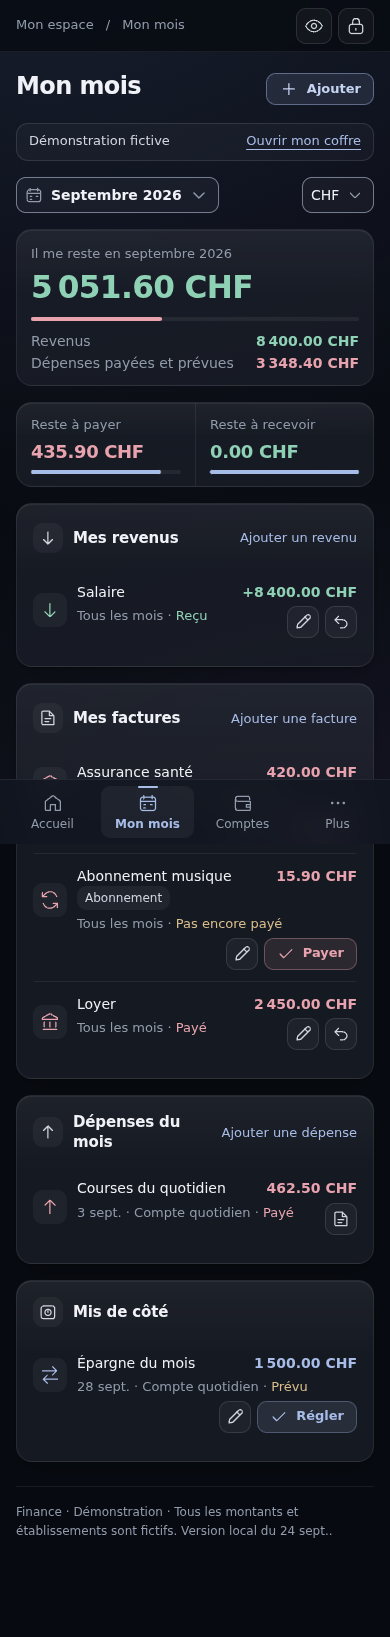
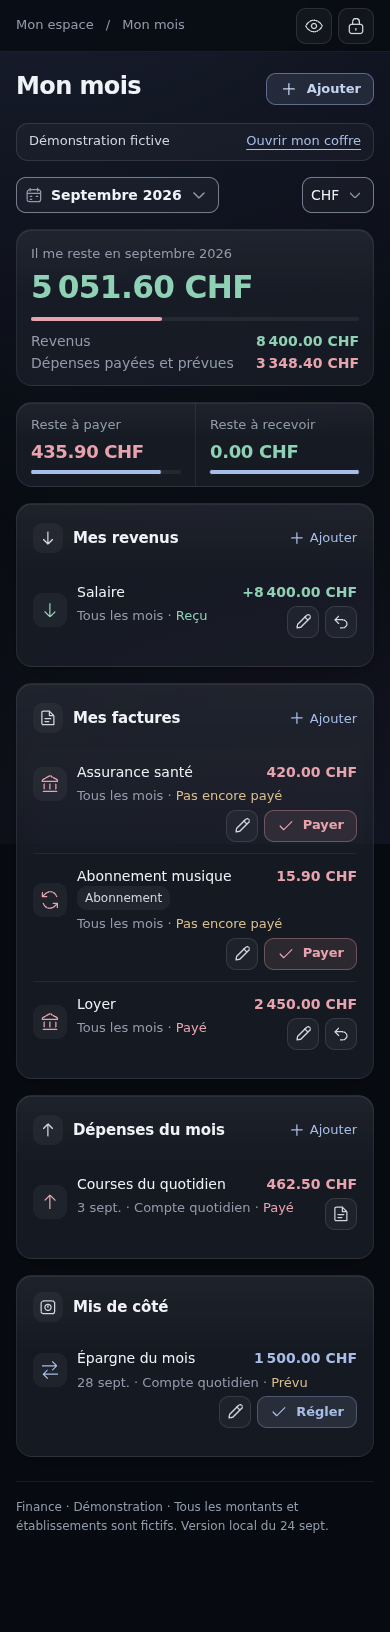
Relecture du lot C : paiement en retard dit « Payé en {mois} », une ligne par règlement
- Dans le mois d'échéance, une facture réglée plus tard affiche « Payé en
  {mois} » et un montant en retrait : elle compte dans le mois du paiement,
  comme les totaux.
- Un règlement lié sans date n'est plus répété dans « Opérations à dater ».
- Le règlement d'une récurrence s'ouvre en touchant sa ligne.
- « Reste à payer » partiel le dit ; actions de carte « Ajouter » avec leur
  nom complet pour les lecteurs d'écran.
- Aller-retour Type/Nature de nouveau testé ; barre mobile absente des
  captures pleine page ; documentation à six pages partout.

Claude-Session: https://claude.ai/code/session_01BRBYP9qFWMSoWkBQrWgN3b

diff --git a/src/App.tsx b/src/App.tsx
@@ -1654,7 +1654,9 @@ export default function App() {
     expenseOperations = operationsOf("expense"),
     savingOperations = operationsOf("saving");
   // Ni date ni mois : dans aucun mois, montrées à part tant qu'il y en a.
-  const undatedOperations = data.transactions.filter((t) => !t.date && !t.budgetMonth);
+  const undatedOperations = data.transactions.filter(
+    (t) => !t.date && !t.budgetMonth && !onRecurrenceRow.has(t),
+  );
   // « Il me reste » : revenus du mois moins dépenses du mois. Rien de saisi, ou un montant
   // inconnu : « — », jamais un zéro inventé.
   const sumKnown = (values: (number | null)[]) =>
@@ -2164,6 +2166,12 @@ export default function App() {
         : null;
     const amountMinor = cohortItem ? cohortItem.dueAmountMinor : null;
     const amountCurrency = cohortItem ? cohortItem.currency : r.currency;
+    // Réglée dans un autre mois (en retard) : elle compte dans le mois du paiement, pas dans
+    // celui-ci, ce que la ligne dit (« Payé en octobre ») et montre (montant en retrait).
+    const paidMonth = settledTxn ? transactionMonth(settledTxn) : undefined;
+    const settledElsewhere = !!settledTxn && !!paidMonth && paidMonth !== month;
+    const settledUndated = !!settledTxn && !paidMonth;
+    const settledWord = r.kind === "income" ? "Reçu" : "Payé";
     // quickSettle is called with dueTxn (a virtual "r.id:dueDate" id — it isn't in
     // data.transactions yet) and stamps that same id onto the real transaction it writes.
     // Once persisted, cohortItem.settled picks that transaction back up by
@@ -2187,7 +2195,25 @@ export default function App() {
         >
           <Icon name={recurrenceTypeIcons[r.recurrenceType]} />
         </span>
-        <div className="row-main">
+        <div
+          className={`row-main${settledTxn ? " row-main-button" : ""}`}
+          {...(settledTxn
+            ? {
+                // Le règlement lui-même (date, compte, état) s'ouvre en touchant la ligne.
+                role: "button" as const,
+                tabIndex: 0,
+                "aria-label": `Détail du règlement de ${r.label}`,
+                onClick: () =>
+                  edit({ type: "transaction", id: settledTxn.id, kind: settledTxn.kind }),
+                onKeyDown: (e: ReactKeyboardEvent) => {
+                  if (e.key === "Enter" || e.key === " ") {
+                    e.preventDefault();
+                    edit({ type: "transaction", id: settledTxn.id, kind: settledTxn.kind });
+                  }
+                },
+              }
+            : {})}
+        >
           <span className="row-title">
             {r.label}
             {/* Factures et abonnements partagent la carte : l'abonnement se reconnaît ici. */}
@@ -2219,9 +2245,11 @@ export default function App() {
                       className={`nowrap ${cohortItem.settled ? recurrenceTone(r) : "status-pending"}`}
                     >
                       {cohortItem.settled
-                        ? r.kind === "income"
-                          ? "Reçu"
-                          : "Payé"
+                        ? settledElsewhere
+                          ? `${settledWord} en ${monthLabel(paidMonth!)}`
+                          : settledUndated
+                            ? `${settledWord} · date à vérifier`
+                            : settledWord
                         : r.kind === "income"
                           ? "Pas encore reçu"
                           : "Pas encore payé"}
@@ -2242,7 +2270,9 @@ export default function App() {
           </span>
         </div>
         <div className="row-end">
-          <div className={`row-value ${recurrenceTone(r)}`}>
+          <div
+            className={`row-value ${settledElsewhere ? "counted-elsewhere" : recurrenceTone(r)}`}
+          >
             {amountMinor !== null && (
               <>
                 {r.kind === "income" ? "+" : ""}
@@ -2251,7 +2281,8 @@ export default function App() {
             )}
           </div>
           <div className="row-actions">
-            {/* L'action principale reste au bord droit. */}
+            {/* L'action principale reste au bord droit. Le crayon garde l'accès à la
+                récurrence (nom, compte, arrêt), même un mois déjà payé. */}
             <button
               className="icon-button"
               aria-label={`Modifier ${r.label}`}
@@ -2892,6 +2923,12 @@ export default function App() {
                 );
               })}
             </div>
+            {summary.unknownCount > 0 && (
+              <p className="meta">
+                {summary.unknownCount} opération(s) non comptée(s) : taux de change
+                manquant ou état à vérifier.
+              </p>
+            )}
             <Card
               title="Mes revenus"
               icon="arrow-down"
@@ -2901,8 +2938,10 @@ export default function App() {
                   onClick={() =>
                     edit({ type: "recurrence", kind: "income", simple: true })
                   }
+                  aria-label="Ajouter un revenu"
                 >
-                  Ajouter un revenu
+                  <Icon name="plus" size={18} />
+                  Ajouter
                 </button>
               }
             >
@@ -2924,8 +2963,10 @@ export default function App() {
                   onClick={() =>
                     edit({ type: "recurrence", recurrenceType: "bill", simple: true })
                   }
+                  aria-label="Ajouter une facture"
                 >
-                  Ajouter une facture
+                  <Icon name="plus" size={18} />
+                  Ajouter
                 </button>
               }
             >
@@ -2945,8 +2986,10 @@ export default function App() {
                 <button
                   className="card-action"
                   onClick={() => edit({ type: "transaction", kind: "expense" })}
+                  aria-label="Ajouter une dépense"
                 >
-                  Ajouter une dépense
+                  <Icon name="plus" size={18} />
+                  Ajouter
                 </button>
               }
             >

diff --git a/src/domain/finance.ts b/src/domain/finance.ts
@@ -291,7 +291,7 @@ export function findOccurrenceTransaction(
  * the projection's own id `${recurrenceId}:${date}`. The id fallback only accepts a
  * transaction carrying no link at all: one whose link names another occurrence is that
  * occurrence's record, never this one's. Shared by `transactionsForMonth`, `occurrenceCohort`
- * and `withOccurrenceAmount`, so Mon mois, Abonnements and Factures agree on every occurrence. */
+ * and `withOccurrenceAmount`, so Mon mois and the Accueil agree on every occurrence. */
 function occurrenceLinks(
   transactions: Transaction[],
 ): (recurrenceId: string, date: string) => Transaction | undefined {
@@ -517,7 +517,7 @@ export function cohortSummary(
  * month's first day instead). The occurrence's linked transaction (`findOccurrenceTransaction`),
  * if any, gets only its `amountMinor` replaced — status, dates, documents and provenance stay as
  * they are. Otherwise the projection (`projectedOccurrence`) is persisted, status "planned",
- * with this amount — so Mon mois, Abonnements and Factures all read the same single record, and
+ * with this amount — so Mon mois and the Accueil read the same single record, and
  * a later recurrence amount change never overrides it. `amountMinor` is read in the currency of
  * the record it lands on: the linked transaction's own (cohort item `currency`) when one
  * exists, else the recurrence's.

diff --git a/src/index.css b/src/index.css
@@ -1488,6 +1488,11 @@ details[open] > summary::after {
   line-height: 1.45;
   font-variant-numeric: tabular-nums;
 }
+/* Échéance réglée dans un autre mois : montrée, mais comptée dans le mois du paiement. */
+.row-value.counted-elsewhere {
+  color: var(--muted);
+  font-weight: 500;
+}
 .row-value .row-detail {
   font-weight: 400;
 }

diff --git a/docs/STATUS.md b/docs/STATUS.md
@@ -880,7 +880,7 @@ Ce qui change :
 - **Chaque opération une seule fois.** L'échéance due d'une récurrence est la ligne de cette récurrence, qu'elle soit projetée, ajustée ou réglée. Toute autre opération du mois reste visible dans la carte de sa nature :
   - l'échéance d'une récurrence existante qui n'est pas celle affichée ce mois-ci, par exemple payée en retard, compte dans le mois de son paiement. Elle y porte « pour {mois} » : le mois qu'elle règle, jamais un jour ;
   - une opération dont la récurrence a disparu reste ponctuelle.
-  Les lignes affichées correspondent ainsi aux totaux du mois.
+  Dans le mois de l'échéance, un règlement fait plus tard affiche « Payé en {mois} », avec son montant en retrait : il compte dans le mois du paiement, comme dans les totaux.
 - **Conservé** :
   - « Payer », « Reçu » et « Régler » instantanés, avec leur voile ;
   - « Remettre à payer » avec « Annuler » ;
@@ -932,10 +932,25 @@ Limites :
 - **80 px non atteints pour une ligne avec « Payer ».** Placer le bouton sur la ligne du statut laisserait environ 135 px au texte « Tous les mois · Pas encore payé », qui en demande environ 190. Le statut passerait sur deux lignes (environ 87 px) et les titres perdraient 45 px. La mise en page actuelle est donc gardée (104 px). Un abonnement au nom long fait 128 px : son étiquette passe à la ligne (« Abonnement musique » dans la démo).
 - À 390 px, dans Chromium sous Linux, le titre « Dépenses du mois » passe sur deux lignes à côté de « Ajouter une dépense ». La police y est plus large que SF Pro ; ce point n'est pas vérifié sur iPhone.
 - **Créer un abonnement** : « Un abonnement » est ajouté au choix « Ajouter » de l'Accueil. Une mise de côté se crée par « Ajouter une dépense », « Tous les mois » puis « Nature », ou en changeant la nature d'une facture existante. Le formulaire « Une récurrence » avec choix du type (l'ancien « Ajouter » d'Abonnements) n'est plus atteignable ; la nature enregistrée est vérifiée à la réouverture.
-- Une ligne de récurrence réglée n'a pas l'icône « Joindre » (comme sur l'ancienne page Factures). Le reçu se joint depuis Documents et réglages ; les lignes ponctuelles gardent l'icône.
+- Une ligne de récurrence réglée n'a pas l'icône « Joindre », pour rester sur deux icônes : le reçu se joint depuis Documents et réglages (les lignes ponctuelles gardent l'icône). Le règlement lui-même (date, compte, état) s'ouvre en touchant la ligne.
 - « Ajouter une dépense » date l'opération d'aujourd'hui, même si un autre mois est affiché (comportement antérieur du formulaire).
 - `AGENTS.md`, `SKILL.md`, `design.md`, `abonnements.md` et l'agent `finance-abonnements` sont mis à jour : six pages, et Mon mois à la place des pages Abonnements et Factures.
-- Aucune relecture indépendante (`finance-designer`, `finance-verification`) : l'environnement de ce lot n'offrait pas de sous-agents. Aucun essai sur appareil physique.
+- Aucun essai sur appareil physique.
+
+Relecture indépendante (`finance-verification`), avec deux jeux fictifs importés et les lignes de juillet à novembre comparées aux calculs faits à la main :
+- les totaux concordent au centime avec `monthSummary`. Cas vérifiés : paiement anticipé, paiement en retard (« pour août »), échéance ajustée, annuelle et trimestrielle, récurrence en pause ou terminée, montant en EUR converti ;
+- les actions sont conservées : « Payer », « Reçu », « Régler », « Remettre à payer » et « Annuler », le crayon, le focus, les montants masqués ;
+- la navigation est cohérente, il n'y a pas de code mort, et rien ne déborde à 320, 390, 834 et 1440 px.
+
+Défauts réels, corrigés :
+1. **Bloquant :** dans le mois d'échéance d'une facture payée plus tard, la ligne affichait « Payé » et un montant que les totaux de ce mois ne comptent pas. Elle affiche maintenant « Payé en {mois} », avec le montant en retrait. Le scénario « one Mon mois page » vérifie ce mois-là : « Payé en … », et « Reste à payer » comme « Il me reste » à « — » : aucune dépense comptée ce mois-là (un paiement compté donnerait 0.00).
+2. Un règlement lié sans date apparaissait deux fois (sur sa ligne et dans « Opérations à dater ») : il n'apparaît plus qu'une fois, marqué « date à vérifier ».
+3. Le règlement d'une facture récurrente ne s'ouvrait plus depuis Mon mois : la ligne s'ouvre désormais elle-même (« Détail du règlement » : date, compte, état). Le crayon reste, pour « Déjà payé » et l'accès à la récurrence. Le justificatif se joint depuis Documents et réglages, sans troisième icône : une ligne réglée garde ainsi deux icônes et 80 px au plus.
+4. « Reste à payer » partiel (taux manquant, état à vérifier) : une mention indique le nombre d'opérations non comptées.
+5. Le contrôle de l'aller-retour Type/Nature est rétabli dans les e2e.
+6. Documentation encore « sept pages » ou « page Abonnements » : mise à jour.
+7. Captures pleine page : la barre mobile fixe n'y est plus dessinée.
+8. Titres de carte : les actions affichent « Ajouter », avec leur nom complet pour les lecteurs d'écran ; « Dépenses du mois » tient sur une ligne.
 
 ## État réel
 

diff --git a/.claude/skills/finance/references/abonnements.md b/.claude/skills/finance/references/abonnements.md
@@ -62,7 +62,7 @@ Séparer deux axes et les nommer dans l’interface :
 - **cohorte d’échéances** : occurrences dont la date d’échéance appartient au mois sélectionné ;
 - **flux réalisé** : opérations `settled` dont la date réelle de règlement appartient au mois sélectionné.
 
-Pour la cohorte, afficher `Dû en <mois>`, `Réglé pour <mois>` et `Reste dû`. `Réglé pour <mois>` suit le lien avec l’occurrence même si le règlement est plus tardif ; montrer alors sa date et le retard. `Reste dû` ne tombe à zéro que si le règlement rapproché couvre l’occurrence. Tant que le modèle n’a pas de règlement partiel, une opération réglée liée à l’échéance la clôt : son montant devient le montant dû de cette échéance (Mon mois et l’Accueil affichent alors le même chiffre), et l’écart avec la règle reste visible (`projectedAmountMinor`, mention « habituel … »). Pour le flux, conserver les libellés `Payé en <mois>` et `Reçu en <mois>` et classer selon la date réelle.
+Dans Mon mois, une échéance du mois affiche son statut sur la ligne de sa récurrence : « Payé » ou « Reçu » quand le règlement compte dans ce mois, « Payé en <mois> » ou « Reçu en <mois> » quand il a été fait plus tard, le montant étant alors montré en retrait puisqu’il compte dans le mois du paiement ; le mois du paiement le montre, lui, avec « pour <mois de l’échéance> ». `Reste dû` ne tombe à zéro que si le règlement rapproché couvre l’occurrence. Tant que le modèle n’a pas de règlement partiel, une opération réglée liée à l’échéance la clôt : son montant devient le montant dû de cette échéance (Mon mois et l’Accueil affichent alors le même chiffre), et l’écart avec la règle reste visible (`projectedAmountMinor`, mention « habituel … »). Pour le flux, conserver les libellés `Payé en <mois>` et `Reçu en <mois>` et classer selon la date réelle.
 
 Exemple obligatoire : une charge de 100 CHF due le 28 février et payée le 2 mars donne, pour la cohorte de février, 100 CHF dus, 100 CHF réglés et 0 CHF restant, avec la mention « payé le 2 mars ». Le flux réalisé de février vaut 0 CHF pour cette charge ; celui de mars inclut 100 CHF. L’échéance propre à mars reste une occurrence distincte.
 

diff --git a/DEMARRER_CLAUDE.md b/DEMARRER_CLAUDE.md
@@ -15,7 +15,7 @@ récent que les SHA documentés.
 Mon objectif est de garder l’application noire, sobre, simple et rapide,
 tout en la rendant plus aboutie : cartes moins hautes, listes plus claires,
 icônes homogènes, identité d’établissement discrète, tri financier du plus
-gros au plus petit, sélecteur Janvier–Décembre, page Abonnements et statuts
+gros au plus petit, sélecteur Janvier–Décembre, Mon mois qui réunit factures, abonnements et revenus avec leurs statuts
 mensuels Payé/Reçu/Pas encore payé ou reçu. Le logo Finance doit aussi être
 amélioré et rester original.
 
@@ -31,7 +31,7 @@ Traite les lots dans l’ordre des dépendances :
 2. classe les récurrences sans transformer toutes les charges en abonnements ;
 3. fais évoluer le modèle des occurrences et migre les coffres/exports anciens sans perte ;
 4. remplace le contrôle technique YYYY-MM par des mois français et une année, puis ajoute les actions Marquer payé/Marquer reçu et leur correction ;
-5. ajoute la page Abonnements sur ce modèle partagé ;
+5. suis factures, abonnements et revenus dans Mon mois, sur ce modèle partagé ;
 6. centralise le tri multidevise et sépare les valeurs impossibles à comparer ;
 7. transforme comptes et abonnements en listes compactes ;
 8. applique une seule famille d’icônes et un registre local d’établissements ;

diff --git a/README.md b/README.md
@@ -2,7 +2,7 @@
 
 Budget et patrimoine personnels, en français, avec interface « Midnight Glass » (noir graphite, verre fumé, bleu glacier) adaptée à l’iPhone, à l’iPad et à l’ordinateur.
 
-**Reprise Claude / Codex : [DEMARRER_CLAUDE.md](DEMARRER_CLAUDE.md).** Le skill maître est [.claude/skills/finance/SKILL.md](.claude/skills/finance/SKILL.md), accompagné de onze missions spécialisées. L’état de livraison vérifié est dans [docs/STATUS.md](docs/STATUS.md). La tranche compacte avec page Abonnements, tri, icônes et nouveau logo est définie dans [docs/PLAN_AMELIORATION_V2.md](docs/PLAN_AMELIORATION_V2.md).
+**Reprise Claude / Codex : [DEMARRER_CLAUDE.md](DEMARRER_CLAUDE.md).** Le skill maître est [.claude/skills/finance/SKILL.md](.claude/skills/finance/SKILL.md), accompagné de onze missions spécialisées. L’état de livraison vérifié est dans [docs/STATUS.md](docs/STATUS.md). La tranche compacte (Mon mois unique avec factures et abonnements, tri, icônes et nouveau logo) est définie dans [docs/PLAN_AMELIORATION_V2.md](docs/PLAN_AMELIORATION_V2.md).
 
 ## Démarrer
 

diff --git a/.claude/skills/finance/SKILL.md b/.claude/skills/finance/SKILL.md
@@ -54,7 +54,7 @@ Les missions sont dans `.claude/agents/finance-*.md`. Le coordinateur délègue 
 | Notion                     | Correspondance sourcée et ambiguïtés              | Calculs + sécurité               |
 | Calculs                    | Fonctions exactes et cas chiffrés                 | Patrimoine + vérification        |
 | Patrimoine                 | Comptes, actifs et absence de double compte       | Calculs                          |
-| Abonnements                | Modèle, occurrences, statuts, affichage dans Mon mois | Calculs + données + vérification |
+| Abonnements                | Occurrences, statuts, affichage dans Mon mois     | Calculs + données + vérification |
 | Identité visuelle          | Logo, icônes, établissements et densité           | Designer + sécurité              |
 | Designer                   | Parcours, composants, responsive et accessibilité | Frontend + vérification          |
 | Frontend                   | Pages, formulaires et interactions                | Designer + vérification          |

diff --git a/.claude/agents/finance-abonnements.md b/.claude/agents/finance-abonnements.md
@@ -14,7 +14,7 @@ Posséder la classification des récurrences, leur migration, leur affichage dan
 - Migration versionnée, pure et idempotente après déchiffrement : les anciennes valeurs ambiguës et dates inconnues restent à vérifier ; un échec laisse l’ancien coffre intact et restaurable.
 - Occurrence stable par récurrence et date ; aucun doublon après bascule, import ou rechargement.
 - Boutons adaptés à la nature : payé pour une dépense, reçu pour un revenu, état restant explicite.
-- Changement d’un mois répercuté sur Abonnements, Mon mois et Accueil.
+- Changement d’un mois répercuté sur Mon mois et l’Accueil.
 - Pause, fin et changement de montant ne réécrivent pas l’historique.
 - Tests métier des cas calendaires et multidevises, puis parcours navigateur avec données fictives.
 

diff --git a/.claude/skills/finance/references/amelioration-v2.md b/.claude/skills/finance/references/amelioration-v2.md
@@ -10,7 +10,7 @@ Lire `docs/AUDIT_UI_V2.md` avant de modifier l’application. Cette tranche affi
 4. Transformer les grandes grilles de comptes en listes compactes.
 5. Étendre le système d’icônes et l’identité des établissements.
 6. Refaire le logo et ses déclinaisons après validation de la direction visuelle.
-7. Vérifier les sept pages, sauvegardes, captures, CI et déploiement.
+7. Vérifier les six pages, sauvegardes, captures, CI et déploiement.
 
 Un lot métier précède le lot visuel qui le représente. Ne pas figer une maquette d’abonnement avant d’avoir défini l’occurrence, son statut et sa migration.
 

diff --git a/.claude/agents/finance-frontend.md b/.claude/agents/finance-frontend.md
@@ -7,7 +7,7 @@ Lire le skill Finance, `references/design.md`, `references/amelioration-v2.md`, 
 
 ## Mission
 
-Rendre les sept pages réellement utilisables sur iPhone, iPad et Windows. Relier les formulaires aux mêmes entités pour qu’une saisie mette à jour les vues concernées après confirmation de persistance.
+Rendre les six pages réellement utilisables sur iPhone, iPad et Windows. Relier les formulaires aux mêmes entités pour qu’une saisie mette à jour les vues concernées après confirmation de persistance.
 
 ## Périmètre
 
